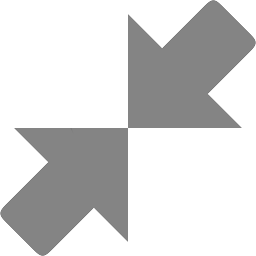
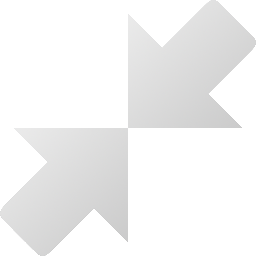
Changed video mouseover elements to more contrast the video and overall improve styling
Updated to v0.2.1

diff --git a/js/web.js b/js/web.js
@@ -266,13 +266,13 @@ function toggleExpandingVideoPlayer(){
 	if(videoPlayerExpanded){
 		videoPlayerExpanded = false;
 		videoPlayer_jQ.attr("style", "top:100;bottom:150;");
-		currentVideoMessage_jQ.attr("style", "top:105;left:15px;");
+		currentVideoMessage_jQ.attr("style", "top:105;left:5px;");
 	}
 	// expand
 	else{
 		videoPlayerExpanded = true;
 		videoPlayer_jQ.attr("style", "top:0;bottom:0;");
-		currentVideoMessage_jQ.attr("style", "top:15;left:15px;");
+		currentVideoMessage_jQ.attr("style", "top:5;left:5px;");
 	}
 }
 
@@ -345,12 +345,12 @@ $(document).ready(function(){
 			clearTimeout(moveTimer);
 		}
 		if(videoMessageHidden) {
-			currentVideoMessage_jQ.fadeIn();
+			currentVideoMessage_jQ.show();
 			if(videoPlayerExpanded){
-				contractButton_jQ.fadeIn();
+				contractButton_jQ.show();
 			}
 			else{
-				expandButton_jQ.fadeIn();
+				expandButton_jQ.show();
 			}
 
 			videoMessageHidden = false;

diff --git a/css/viewer.css b/css/viewer.css
@@ -108,8 +108,11 @@ body {
 
 #currentVideoMessage{
 	position: fixed;
-	top: 100px;
-	left: 15px;
+	top: 105px;
+	left: 5px;
+	background-color: rgba(0, 0, 0, 0.7);
+	border-radius: 6px;
+	padding: 5px 8px;
 }
 
 #emptyVideoMessage{
@@ -317,16 +320,22 @@ ul.tvShowEpisodeViewTabs li {
 
 #expandButton{
 	position: fixed;
-	top: 100px;
-	right: 15px;
-	height: 25px;
-	width: 25px;
+	top: 105px;
+	right: 5px;
+	height: 19px;
+	width: 19px;
+	background-color: rgba(0, 0, 0, 0.7);
+	border-radius: 6px;
+	padding: 5px;
 }
 
 #contractButton{
 	position: fixed;
-	top: 15px;
-	right: 15px;
-	height: 25px;
-	width: 25px;
+	top: 5px;
+	right: 5px;
+	height: 19px;
+	width: 19px;
+	background-color: rgba(0, 0, 0, 0.7);
+	border-radius: 6px;
+	padding: 5px;
 }
